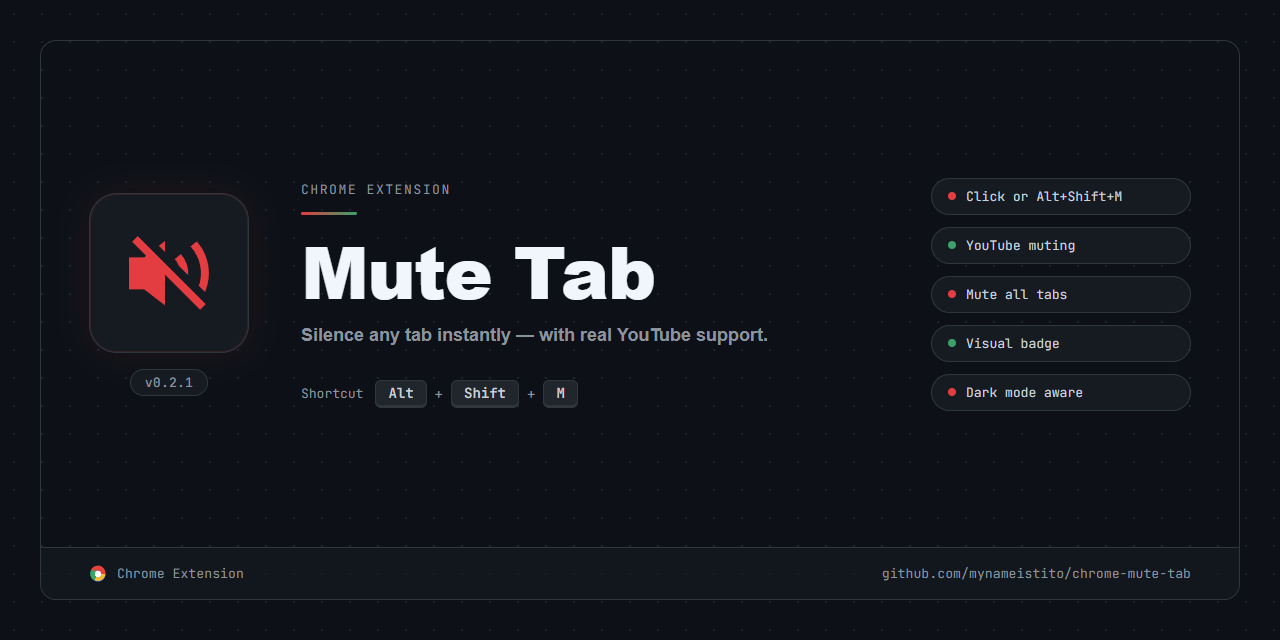
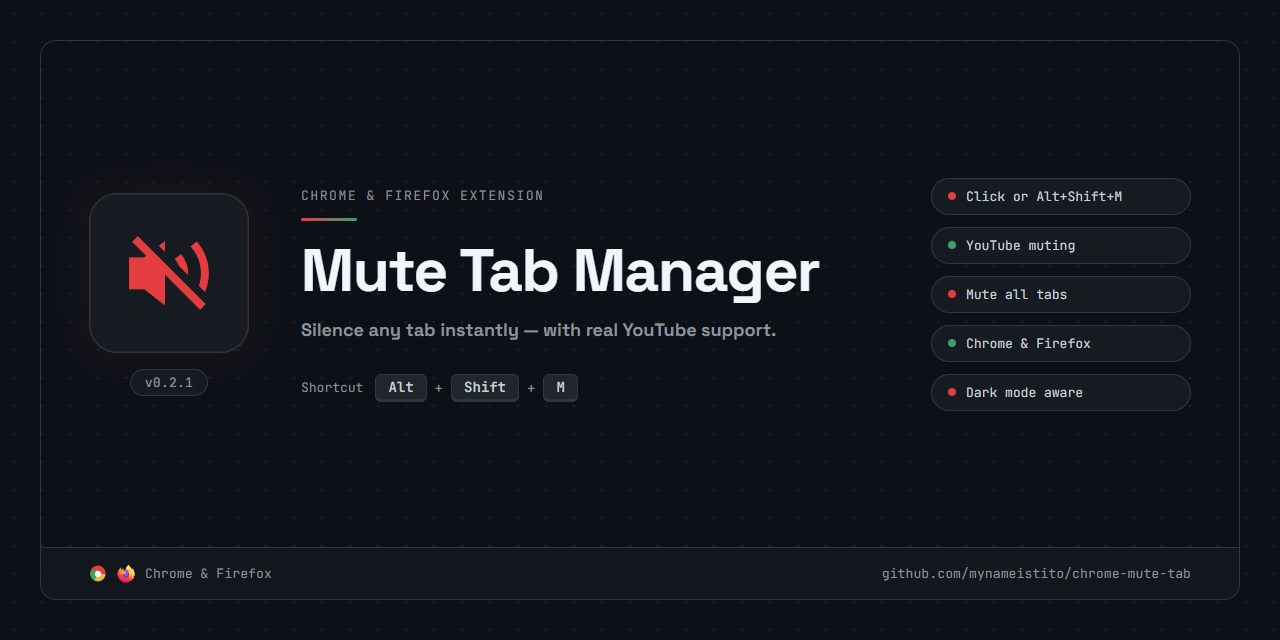
rename: mute-tab → mute-tab-manager across all packages
- Rename root package `mute-tab` → `mute-tab-manager`
- Rename `@mute-tab/{chrome,firefox,shared}` → `@mute-tab-manager/{chrome,firefox,shared}`
- Update all import paths, tsconfig path aliases, and workspace deps
- Extension display name: "Mute Tab" → "Mute Tab Manager" in both manifests
- Firefox gecko ID: `mute-tab@mynameistito` → `mute-tab-manager@mynameistito`
- Release ZIPs: `mute-tab-{chrome,firefox}-v*.zip` → `mute-tab-manager-{chrome,firefox}-v*.zip`
- Update social preview: new name, Firefox logo, "Chrome & Firefox" branding
- Add changeset for minor bump across all three packages
- Regenerate bun.lock

diff --git a/assets/social-preview.html b/assets/social-preview.html
@@ -3,7 +3,7 @@
   <head>
     <meta charset="UTF-8">
     <meta name="viewport" content="width=1280">
-    <title>Mute Tab — Social Preview</title>
+    <title>Mute Tab Manager — Social Preview</title>
     <link
       href="https://fonts.googleapis.com/css2?family=Space+Grotesk:wght@700&family=JetBrains+Mono:wght@400;500&display=swap"
       rel="stylesheet"
@@ -136,7 +136,7 @@
     .headline {
       margin-bottom: 16px;
       font-family: "Space Grotesk", sans-serif;
-      font-size: 72px;
+      font-size: 60px;
       font-weight: 800;
       line-height: 1;
       color: var(--text-primary);
@@ -296,9 +296,9 @@
 
           <!-- CENTER: Text -->
           <div class="col-text">
-            <p class="eyebrow">Chrome Extension</p>
+            <p class="eyebrow">Chrome &amp; Firefox Extension</p>
             <div class="accent-bar"></div>
-            <h1 class="headline">Mute Tab</h1>
+            <h1 class="headline">Mute Tab Manager</h1>
             <p class="tagline">
               Silence any tab instantly — with real YouTube support.
             </p>
@@ -328,7 +328,7 @@
             </div>
             <div class="feature-chip">
               <span class="chip-dot chip-dot--green"></span>
-              <span class="chip-label">Visual badge</span>
+              <span class="chip-label">Chrome &amp; Firefox</span>
             </div>
             <div class="feature-chip">
               <span class="chip-dot chip-dot--red"></span>
@@ -362,7 +362,9 @@
                 fill="#34A853"
               />
             </svg>
-            <span class="footer-text">Chrome Extension</span>
+            <!-- Firefox SVG icon -->
+            <svg xmlns="http://www.w3.org/2000/svg" class="footer-icon" viewBox="0 0 512 512"><defs><radialGradient id="g" cx="210%" cy="-100%" r="290%"><stop offset=".1" stop-color="#ffe226"/><stop offset=".79" stop-color="#ff7139"/></radialGradient><radialGradient id="c" cx="49%" cy="40%" r="128%" gradientTransform="matrix(.82 0 0 1 .088 0)"><stop offset=".3" stop-color="#960e18"/><stop offset=".35" stop-color="#b11927" stop-opacity=".74"/><stop offset=".43" stop-color="#db293d" stop-opacity=".34"/><stop offset=".5" stop-color="#f5334b" stop-opacity=".09"/><stop offset=".53" stop-color="#ff3750" stop-opacity="0"/></radialGradient><radialGradient id="d" cx="48%" cy="-12%" r="140%"><stop offset=".13" stop-color="#fff44f"/><stop offset=".53" stop-color="#ff980e"/></radialGradient><radialGradient id="e" cx="22.76%" cy="110.11%" r="100%"><stop offset=".35" stop-color="#3a8ee6"/><stop offset=".67" stop-color="#9059ff"/><stop offset="1" stop-color="#c139e6"/></radialGradient><radialGradient id="f" cx="52%" cy="33%" r="59%" gradientTransform="scale(.9 1)"><stop offset=".21" stop-color="#9059ff" stop-opacity="0"/><stop offset=".97" stop-color="#6e008b" stop-opacity=".6"/></radialGradient><radialGradient id="b" cx="87.4%" cy="-12.9%" r="128%" gradientTransform="matrix(.8 0 0 1 .178 .129)"><stop offset=".13" stop-color="#ffbd4f"/><stop offset=".28" stop-color="#ff980e"/><stop offset=".47" stop-color="#ff3750"/><stop offset=".78" stop-color="#eb0878"/><stop offset=".86" stop-color="#e50080"/></radialGradient><radialGradient id="h" cx="84%" cy="-41%" r="180%"><stop offset=".11" stop-color="#fff44f"/><stop offset=".46" stop-color="#ff980e"/><stop offset=".72" stop-color="#ff3647"/><stop offset=".9" stop-color="#e31587"/></radialGradient><radialGradient id="i" cx="16.1%" cy="-18.6%" r="348.8%" gradientTransform="scale(1 .47) rotate(84 .279 -.297)"><stop offset="0" stop-color="#fff44f"/><stop offset=".3" stop-color="#ff980e"/><stop offset=".57" stop-color="#ff3647"/><stop offset=".74" stop-color="#e31587"/></radialGradient><radialGradient id="j" cx="18.9%" cy="-42.5%" r="238.4%"><stop offset=".14" stop-color="#fff44f"/><stop offset=".48" stop-color="#ff980e"/><stop offset=".66" stop-color="#ff3647"/><stop offset=".9" stop-color="#e31587"/></radialGradient><radialGradient id="k" cx="159.3%" cy="-44.72%" r="313.1%"><stop offset=".09" stop-color="#fff44f"/><stop offset=".63" stop-color="#ff980e"/></radialGradient><linearGradient id="a" x1="87.25%" y1="15.5%" x2="9.4%" y2="93.1%"><stop offset=".05" stop-color="#fff44f"/><stop offset=".37" stop-color="#ff980e"/><stop offset=".53" stop-color="#ff3647"/><stop offset=".7" stop-color="#e31587"/></linearGradient><linearGradient id="l" x1="80%" y1="14%" x2="18%" y2="84%"><stop offset=".17" stop-color="#fff44f" stop-opacity=".8"/><stop offset=".6" stop-color="#fff44f" stop-opacity="0"/></linearGradient></defs><path d="M478.711 166.353c-10.445-25.124-31.6-52.248-48.212-60.821 13.52 26.505 21.345 53.093 24.335 72.936 0 .039.015.136.047.4C427.706 111.135 381.627 83.823 344 24.355c-1.9-3.007-3.805-6.022-5.661-9.2a73.716 73.716 0 01-2.646-4.972A43.7 43.7 0 01332.1.677a.626.626 0 00-.546-.644.818.818 0 00-.451 0c-.034.012-.084.051-.12.065-.053.021-.12.069-.176.1.027-.036.083-.117.1-.136-60.37 35.356-80.85 100.761-82.732 133.484a120.249 120.249 0 00-66.142 25.488 71.355 71.355 0 00-6.225-4.7 111.338 111.338 0 01-.674-58.732c-24.688 11.241-43.89 29.01-57.85 44.7h-.111c-9.527-12.067-8.855-51.873-8.312-60.184-.114-.515-7.107 3.63-8.023 4.255a175.073 175.073 0 00-23.486 20.12 210.478 210.478 0 00-22.442 26.913c0 .012-.007.026-.011.038 0-.013.007-.026.011-.038a202.838 202.838 0 00-32.247 72.805c-.115.521-.212 1.061-.324 1.586-.452 2.116-2.08 12.7-2.365 15-.022.177-.032.347-.053.524a229.066 229.066 0 00-3.9 33.157c0 .41-.025.816-.025 1.227C16 388.418 123.6 496 256.324 496c118.865 0 217.56-86.288 236.882-199.63.407-3.076.733-6.168 1.092-9.271 4.777-41.21-.53-84.525-15.587-120.746zM201.716 354.447c1.124.537 2.18 1.124 3.334 1.639.048.033.114.07.163.1a126.191 126.191 0 01-3.497-1.739zm55.053-144.93zm198.131-30.59l-.032-.233c.012.085.027.174.04.259z" fill="url(#a)"/><path d="M478.711 166.353c-10.445-25.124-31.6-52.248-48.212-60.821 13.52 26.505 21.345 53.093 24.335 72.936 0-.058.011.048.036.226.012.085.027.174.04.259 22.675 61.47 10.322 123.978-7.479 162.175-27.539 59.1-94.215 119.67-198.576 116.716C136.1 454.651 36.766 370.988 18.223 261.41c-3.379-17.28 0-26.054 1.7-40.084-2.071 10.816-2.86 13.94-3.9 33.157 0 .41-.025.816-.025 1.227C16 388.418 123.6 496 256.324 496c118.865 0 217.56-86.288 236.882-199.63.407-3.076.733-6.168 1.092-9.271 4.777-41.21-.53-84.525-15.587-120.746z" fill="url(#b)"/><path d="M478.711 166.353c-10.445-25.124-31.6-52.248-48.212-60.821 13.52 26.505 21.345 53.093 24.335 72.936 0-.058.011.048.036.226.012.085.027.174.04.259 22.675 61.47 10.322 123.978-7.479 162.175-27.539 59.1-94.215 119.67-198.576 116.716C136.1 454.651 36.766 370.988 18.223 261.41c-3.379-17.28 0-26.054 1.7-40.084-2.071 10.816-2.86 13.94-3.9 33.157 0 .41-.025.816-.025 1.227C16 388.418 123.6 496 256.324 496c118.865 0 217.56-86.288 236.882-199.63.407-3.076.733-6.168 1.092-9.271 4.777-41.21-.53-84.525-15.587-120.746z" fill="url(#c)"/><path d="M361.922 194.6c.524.368 1 .734 1.493 1.1a130.706 130.706 0 00-22.31-29.112C266.4 91.892 321.516 4.626 330.811.194c.027-.036.083-.117.1-.136-60.37 35.356-80.85 100.761-82.732 133.484 2.8-.194 5.592-.429 8.442-.429 45.051 0 84.289 24.77 105.301 61.487z" fill="url(#d)"/><path d="M256.772 209.514c-.393 5.978-21.514 26.593-28.9 26.593-68.339 0-79.432 41.335-79.432 41.335 3.027 34.81 27.261 63.475 56.611 78.643 1.339.692 2.694 1.317 4.05 1.935a132.768 132.768 0 007.059 2.886 106.743 106.743 0 0031.271 6.031c119.78 5.618 142.986-143.194 56.545-186.408 22.137-3.85 45.115 5.053 57.947 14.067-21.012-36.714-60.25-61.484-105.3-61.484-2.85 0-5.641.235-8.442.429a120.249 120.249 0 00-66.142 25.488c3.664 3.1 7.8 7.244 16.514 15.828 16.302 16.067 58.13 32.705 58.219 34.657z" fill="url(#e)"/><path d="M256.772 209.514c-.393 5.978-21.514 26.593-28.9 26.593-68.339 0-79.432 41.335-79.432 41.335 3.027 34.81 27.261 63.475 56.611 78.643 1.339.692 2.694 1.317 4.05 1.935a132.768 132.768 0 007.059 2.886 106.743 106.743 0 0031.271 6.031c119.78 5.618 142.986-143.194 56.545-186.408 22.137-3.85 45.115 5.053 57.947 14.067-21.012-36.714-60.25-61.484-105.3-61.484-2.85 0-5.641.235-8.442.429a120.249 120.249 0 00-66.142 25.488c3.664 3.1 7.8 7.244 16.514 15.828 16.302 16.067 58.13 32.705 58.219 34.657z" fill="url(#f)"/><path d="M170.829 151.036a244.042 244.042 0 014.981 3.3 111.338 111.338 0 01-.674-58.732c-24.688 11.241-43.89 29.01-57.85 44.7 1.155-.033 36.014-.66 53.543 10.732z" fill="url(#g)"/><path d="M18.223 261.41C36.766 370.988 136.1 454.651 248.855 457.844c104.361 2.954 171.037-57.62 198.576-116.716 17.8-38.2 30.154-100.7 7.479-162.175l-.008-.026-.032-.233c-.025-.178-.04-.284-.036-.226 0 .039.015.136.047.4 8.524 55.661-19.79 109.584-64.051 146.044l-.133.313c-86.245 70.223-168.774 42.368-185.484 30.966a144.108 144.108 0 01-3.5-1.743c-50.282-24.029-71.054-69.838-66.6-109.124-42.457 0-56.934-35.809-56.934-35.809s38.119-27.179 88.358-3.541c46.53 21.893 90.228 3.543 90.233 3.541-.089-1.952-41.917-18.59-58.223-34.656-8.713-8.584-12.85-12.723-16.514-15.828a71.355 71.355 0 00-6.225-4.7 282.929 282.929 0 00-4.981-3.3c-17.528-11.392-52.388-10.765-53.543-10.735h-.111c-9.527-12.067-8.855-51.873-8.312-60.184-.114-.515-7.107 3.63-8.023 4.255a175.073 175.073 0 00-23.486 20.12 210.478 210.478 0 00-22.442 26.919c0 .012-.007.026-.011.038 0-.013.007-.026.011-.038a202.838 202.838 0 00-32.247 72.805c-.115.521-8.65 37.842-4.44 57.199z" fill="url(#h)"/><path d="M341.105 166.587a130.706 130.706 0 0122.31 29.112c1.323.994 2.559 1.985 3.608 2.952 54.482 50.2 25.936 121.2 23.807 126.26 44.261-36.46 72.575-90.383 64.051-146.044C427.706 111.135 381.627 83.823 344 24.355c-1.9-3.007-3.805-6.022-5.661-9.2a73.716 73.716 0 01-2.646-4.972A43.7 43.7 0 01332.1.677a.626.626 0 00-.546-.644.818.818 0 00-.451 0c-.034.012-.084.051-.12.065-.053.021-.12.069-.176.1-9.291 4.428-64.407 91.694 10.298 166.389z" fill="url(#i)"/><path d="M367.023 198.651c-1.049-.967-2.285-1.958-3.608-2.952-.489-.368-.969-.734-1.493-1.1-12.832-9.014-35.81-17.917-57.947-14.067 86.441 43.214 63.235 192.026-56.545 186.408a106.743 106.743 0 01-31.271-6.031 134.51 134.51 0 01-7.059-2.886c-1.356-.618-2.711-1.243-4.05-1.935.048.033.114.07.163.1 16.71 11.4 99.239 39.257 185.484-30.966l.133-.313c2.129-5.054 30.675-76.057-23.807-126.258z" fill="url(#j)"/><path d="M148.439 277.443s11.093-41.335 79.432-41.335c7.388 0 28.509-20.615 28.9-26.593s-43.7 18.352-90.233-3.541c-50.239-23.638-88.358 3.541-88.358 3.541s14.477 35.809 56.934 35.809c-4.453 39.286 16.319 85.1 66.6 109.124 1.124.537 2.18 1.124 3.334 1.639-29.348-15.169-53.582-43.834-56.609-78.644z" fill="url(#k)"/><path d="M478.711 166.353c-10.445-25.124-31.6-52.248-48.212-60.821 13.52 26.505 21.345 53.093 24.335 72.936 0 .039.015.136.047.4C427.706 111.135 381.627 83.823 344 24.355c-1.9-3.007-3.805-6.022-5.661-9.2a73.716 73.716 0 01-2.646-4.972A43.7 43.7 0 01332.1.677a.626.626 0 00-.546-.644.818.818 0 00-.451 0c-.034.012-.084.051-.12.065-.053.021-.12.069-.176.1.027-.036.083-.117.1-.136-60.37 35.356-80.85 100.761-82.732 133.484 2.8-.194 5.592-.429 8.442-.429 45.053 0 84.291 24.77 105.3 61.484-12.832-9.014-35.81-17.917-57.947-14.067 86.441 43.214 63.235 192.026-56.545 186.408a106.743 106.743 0 01-31.271-6.031 134.51 134.51 0 01-7.059-2.886c-1.356-.618-2.711-1.243-4.05-1.935.048.033.114.07.163.1a144.108 144.108 0 01-3.5-1.743c1.124.537 2.18 1.124 3.334 1.639-29.35-15.168-53.584-43.833-56.611-78.643 0 0 11.093-41.335 79.432-41.335 7.388 0 28.509-20.615 28.9-26.593-.089-1.952-41.917-18.59-58.223-34.656-8.713-8.584-12.85-12.723-16.514-15.828a71.355 71.355 0 00-6.225-4.7 111.338 111.338 0 01-.674-58.732c-24.688 11.241-43.89 29.01-57.85 44.7h-.111c-9.527-12.067-8.855-51.873-8.312-60.184-.114-.515-7.107 3.63-8.023 4.255a175.073 175.073 0 00-23.486 20.12 210.478 210.478 0 00-22.435 26.916c0 .012-.007.026-.011.038 0-.013.007-.026.011-.038a202.838 202.838 0 00-32.247 72.805c-.115.521-.212 1.061-.324 1.586-.452 2.116-2.486 12.853-2.77 15.156-.022.177.021-.176 0 0a279.565 279.565 0 00-3.544 33.53c0 .41-.025.816-.025 1.227C16 388.418 123.6 496 256.324 496c118.865 0 217.56-86.288 236.882-199.63.407-3.076.733-6.168 1.092-9.271 4.777-41.21-.53-84.525-15.587-120.746zm-23.841 12.341c.012.085.027.174.04.259l-.008-.026-.032-.233z" fill="url(#l)"/></svg>
+            <span class="footer-text">Chrome &amp; Firefox</span>
           </div>
           <span class="footer-url"
             >github.com/mynameistito/chrome-mute-tab</span

diff --git a/scripts/release.ts b/scripts/release.ts
@@ -26,8 +26,8 @@ if (existing.exitCode === 0) {
 
 await $`bun run build`;
 
-const chromeZip = `mute-tab-chrome-v${version}.zip`;
-const firefoxZip = `mute-tab-firefox-v${version}.zip`;
+const chromeZip = `mute-tab-manager-chrome-v${version}.zip`;
+const firefoxZip = `mute-tab-manager-firefox-v${version}.zip`;
 
 await $`rm -f ${chromeZip} ${firefoxZip}`;
 await $`cd apps/chrome/dist && zip -r ../../../${chromeZip} .`;

diff --git a/apps/chrome/src/service-worker.ts b/apps/chrome/src/service-worker.ts
@@ -10,8 +10,8 @@ import {
   ICON_SIZES,
   STORAGE_KEY_DARK_MODE,
   STORAGE_KEY_MUTED_TABS,
-} from "@mute-tab/shared/constants";
-import type { InboundServiceWorkerMessage } from "@mute-tab/shared/types/messages";
+} from "@mute-tab-manager/shared/constants";
+import type { InboundServiceWorkerMessage } from "@mute-tab-manager/shared/types/messages";
 
 const OFFSCREEN_URL = "offscreen.html" as const;
 

diff --git a/apps/firefox/src/service-worker.ts b/apps/firefox/src/service-worker.ts
@@ -10,7 +10,7 @@ import {
   ICON_SIZES,
   STORAGE_KEY_DARK_MODE,
   STORAGE_KEY_MUTED_TABS,
-} from "@mute-tab/shared/constants";
+} from "@mute-tab-manager/shared/constants";
 
 // ── Types ──────────────────────────────────────────────────────────────────
 

diff --git a/apps/chrome/__tests__/service-worker.test.ts b/apps/chrome/__tests__/service-worker.test.ts
@@ -6,7 +6,7 @@ import {
   BADGE_UNMUTED,
   CONTEXT_MENU_MUTE_ALL,
   CONTEXT_MENU_TOGGLE_ID,
-} from "@mute-tab/shared/constants";
+} from "@mute-tab-manager/shared/constants";
 import {
   mockCalls,
   mockConfig,

diff --git a/apps/firefox/__tests__/service-worker.test.ts b/apps/firefox/__tests__/service-worker.test.ts
@@ -6,7 +6,7 @@ import {
   BADGE_UNMUTED,
   CONTEXT_MENU_MUTE_ALL,
   CONTEXT_MENU_TOGGLE_ID,
-} from "@mute-tab/shared/constants";
+} from "@mute-tab-manager/shared/constants";
 import {
   mockCalls,
   mockConfig,

diff --git a/.changeset/rename-to-mute-tab-manager.md b/.changeset/rename-to-mute-tab-manager.md
@@ -1,0 +1,38 @@
+---
+"@mute-tab-manager/chrome": minor
+"@mute-tab-manager/firefox": minor
+"@mute-tab-manager/shared": minor
+---
+
+Rename project and all packages from `mute-tab` / `@mute-tab/*` to `mute-tab-manager` / `@mute-tab-manager/*`.
+
+### Package renames
+
+| Before | After |
+|---|---|
+| `mute-tab` (root) | `mute-tab-manager` |
+| `@mute-tab/chrome` | `@mute-tab-manager/chrome` |
+| `@mute-tab/firefox` | `@mute-tab-manager/firefox` |
+| `@mute-tab/shared` | `@mute-tab-manager/shared` |
+
+### Extension display name
+
+Both `apps/chrome/public/manifest.json` and `apps/firefox/public/manifest.json` now show `"name": "Mute Tab Manager"` instead of `"Mute Tab"`.
+
+### Firefox gecko add-on ID
+
+`apps/firefox/public/manifest.json` gecko ID updated from `mute-tab@mynameistito` to `mute-tab-manager@mynameistito`.
+
+### Release ZIP filenames
+
+`scripts/release.ts` now produces:
+- `mute-tab-manager-chrome-v{version}.zip`
+- `mute-tab-manager-firefox-v{version}.zip`
+
+### TypeScript path aliases
+
+Both `apps/chrome/tsconfig.json` and `apps/firefox/tsconfig.json` path alias keys updated from `@mute-tab/shared/*` to `@mute-tab-manager/shared/*`.
+
+### Social preview
+
+`assets/social-preview.html` updated to reflect the new name ("Mute Tab Manager") and to surface Firefox support — eyebrow now reads "Chrome & Firefox Extension", a "Chrome & Firefox" feature chip was added, and the real Firefox SVG logo appears in the footer alongside the Chrome logo.

diff --git a/README.md b/README.md
@@ -1,4 +1,4 @@
-# Mute Tab
+# Mute Tab Manager
 
 > Silence any tab instantly — with real YouTube support.
 
@@ -85,18 +85,18 @@ cd apps/firefox && bun run build:watch  # rebuild Firefox extension on file chan
 ### Monorepo Structure
 
 ```text
-chrome-mute-tab/
+mute-tab-manager/
 ├── apps/
-│   ├── chrome/          # Chrome MV3 extension (@mute-tab/chrome)
+│   ├── chrome/          # Chrome MV3 extension (@mute-tab-manager/chrome)
 │   │   ├── src/         # service-worker.ts, offscreen.ts
 │   │   ├── public/      # manifest.json, offscreen.html, icons/
 │   │   └── __tests__/
-│   └── firefox/         # Firefox MV3 extension (@mute-tab/firefox)
+│   └── firefox/         # Firefox MV3 extension (@mute-tab-manager/firefox)
 │       ├── src/         # service-worker.ts (matchMedia-based dark mode)
 │       ├── public/      # manifest.json, icons/
 │       └── __tests__/
 ├── packages/
-│   └── shared/          # Shared code (@mute-tab/shared)
+│   └── shared/          # Shared code (@mute-tab-manager/shared)
 │       └── src/         # constants.ts, types/messages.ts, content-youtube.ts
 └── scripts/
     └── release.ts       # Builds and publishes both zips to a GitHub release

diff --git a/apps/firefox/CHANGELOG.md b/apps/firefox/CHANGELOG.md
@@ -1,18 +1,18 @@
-# @mute-tab/firefox
+# @mute-tab-manager/firefox
 
 ## 0.3.3
 
 ### Patch Changes
 
 - d7ec418: Fix Firefox manifest warnings: remove unsupported `service_worker` key (use `scripts` only), bump `strict_min_version` to 140.0 to match when `data_collection_permissions` was introduced on desktop Firefox.
-  - @mute-tab/shared@0.3.3
+  - @mute-tab-manager/shared@0.3.3
 
 ## 0.3.2
 
 ### Patch Changes
 
 - 0bbeeaf: Fix Firefox manifest validation errors: add `background.scripts` fallback alongside `service_worker`, and add `data_collection_permissions` to `browser_specific_settings.gecko`.
-  - @mute-tab/shared@0.3.2
+  - @mute-tab-manager/shared@0.3.2
 
 ## 0.3.1
 
@@ -20,7 +20,7 @@
 
 - b014bc8: Fix release workflow to read version from workspace packages, validate version sync across packages, and guard against undefined version producing phantom tags.
 - Updated dependencies [b014bc8]
-  - @mute-tab/shared@0.3.1
+  - @mute-tab-manager/shared@0.3.1
 
 ## 0.3.0
 
@@ -40,4 +40,4 @@
 ### Patch Changes
 
 - Updated dependencies [1140ee1]
-  - @mute-tab/shared@0.3.0
+  - @mute-tab-manager/shared@0.3.0

diff --git a/apps/chrome/CHANGELOG.md b/apps/chrome/CHANGELOG.md
@@ -1,16 +1,16 @@
-# @mute-tab/chrome
+# @mute-tab-manager/chrome
 
 ## 0.3.3
 
 ### Patch Changes
 
-- @mute-tab/shared@0.3.3
+- @mute-tab-manager/shared@0.3.3
 
 ## 0.3.2
 
 ### Patch Changes
 
-- @mute-tab/shared@0.3.2
+- @mute-tab-manager/shared@0.3.2
 
 ## 0.3.1
 
@@ -18,7 +18,7 @@
 
 - b014bc8: Fix release workflow to read version from workspace packages, validate version sync across packages, and guard against undefined version producing phantom tags.
 - Updated dependencies [b014bc8]
-  - @mute-tab/shared@0.3.1
+  - @mute-tab-manager/shared@0.3.1
 
 ## 0.3.0
 
@@ -38,4 +38,4 @@
 ### Patch Changes
 
 - Updated dependencies [1140ee1]
-  - @mute-tab/shared@0.3.0
+  - @mute-tab-manager/shared@0.3.0

diff --git a/packages/shared/CHANGELOG.md b/packages/shared/CHANGELOG.md
@@ -1,4 +1,4 @@
-# @mute-tab/shared
+# @mute-tab-manager/shared
 
 ## 0.3.3
 
